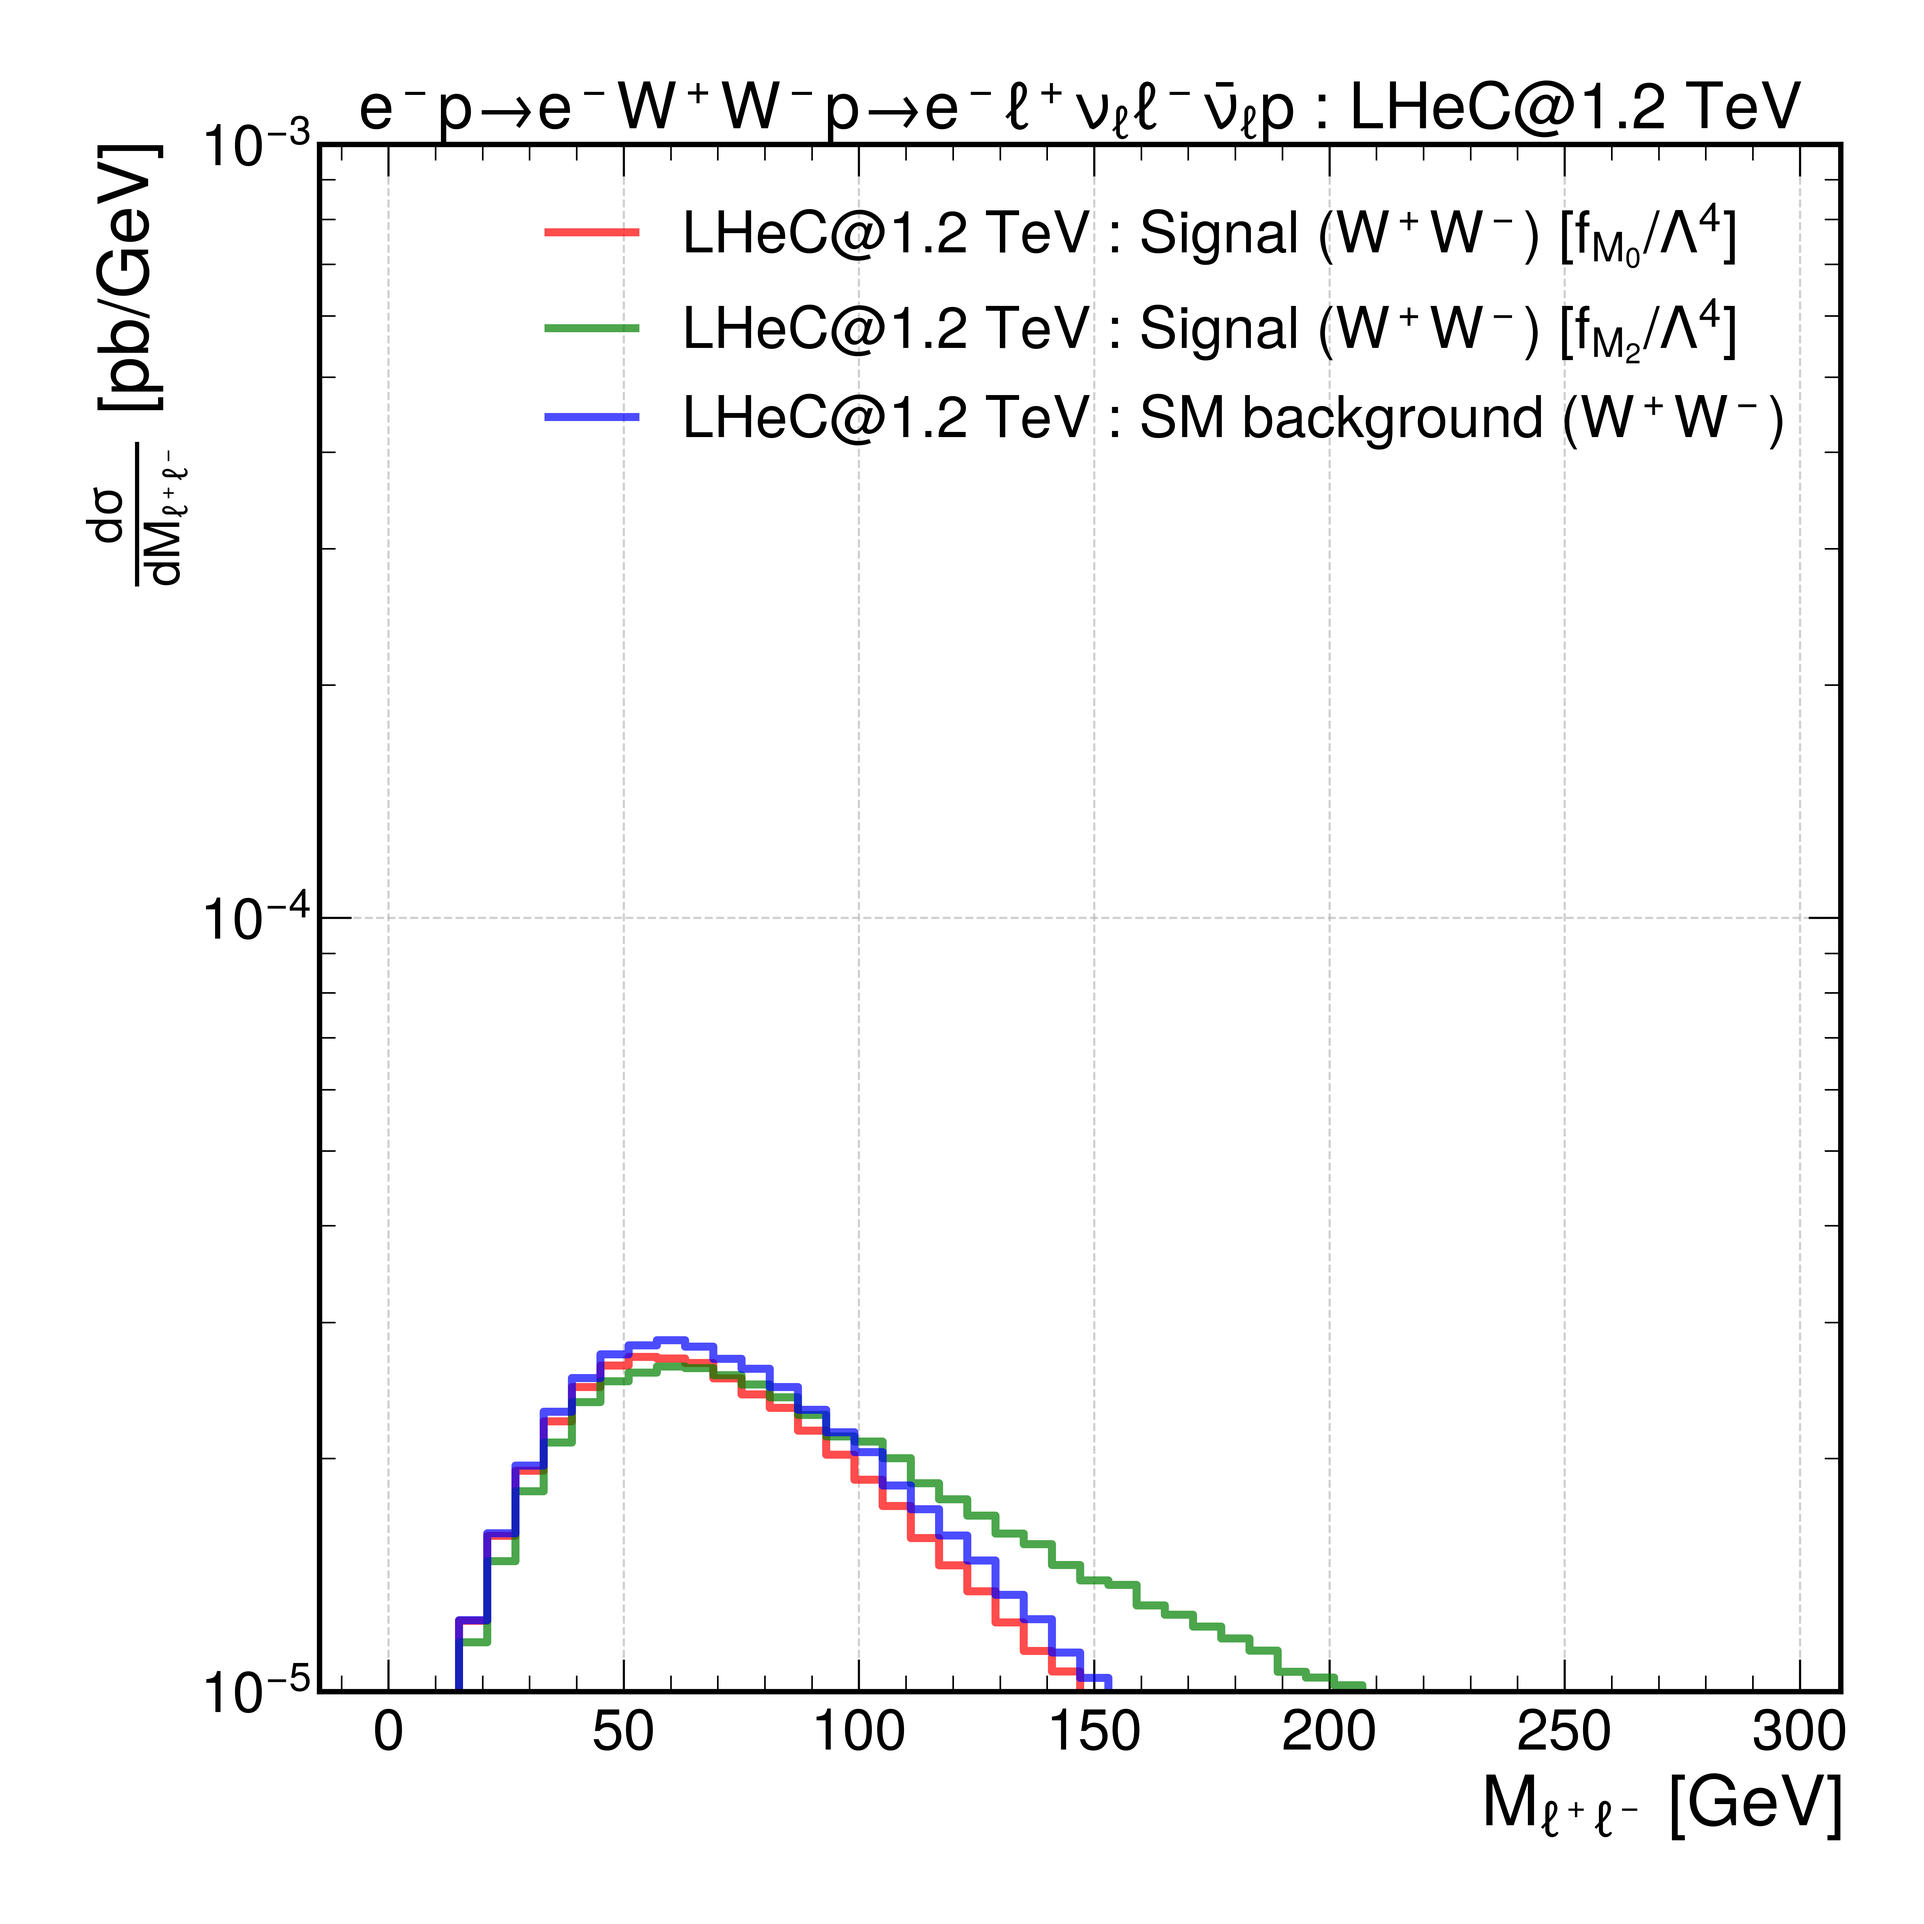
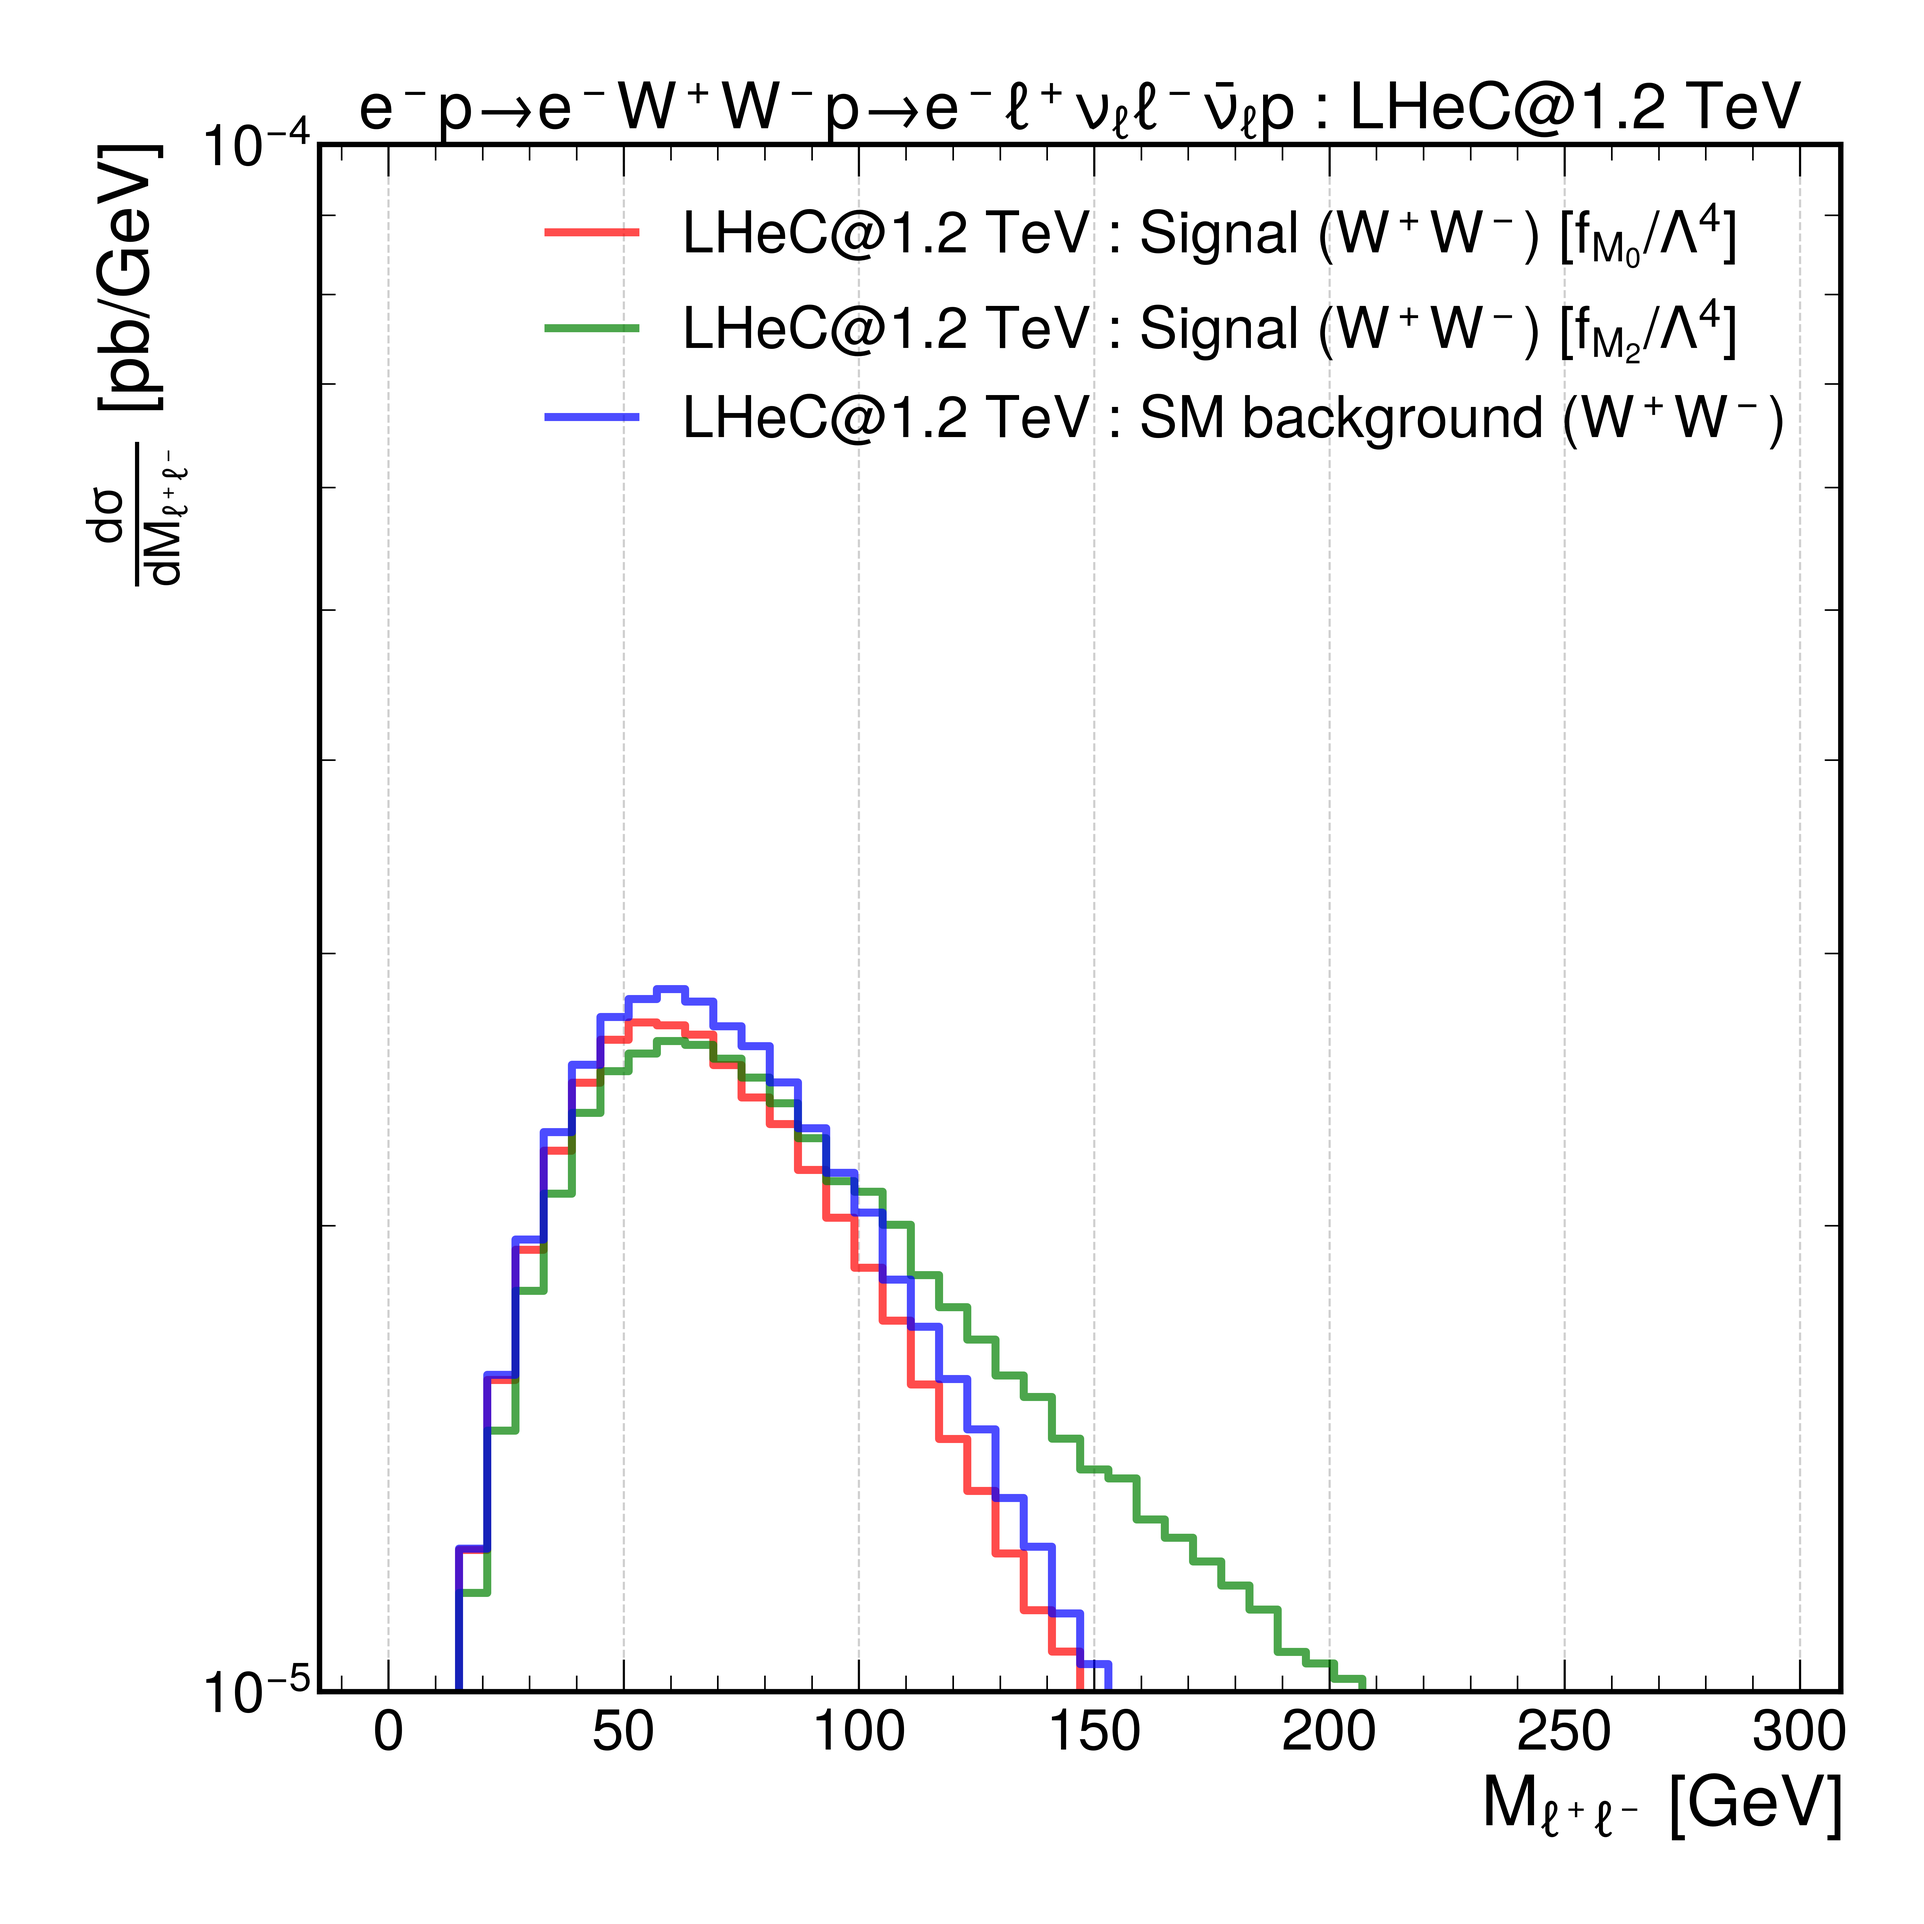
updates
updates

diff --git a/aa_to_fully_leptonic_ww_analysis_code/aa_to_fully_leptonic_ww_analysis_code.py b/aa_to_fully_leptonic_ww_analysis_code/aa_to_fully_leptonic_ww_analysis_code.py
@@ -522,7 +522,7 @@ plt.yscale("log")
 plt.legend()
 plt.grid(True, linestyle="--", alpha=0.6)
 plt.tight_layout()
-plt.ylim(0.00001, 0.001)
+plt.ylim(0.00001, 0.0001)
 plt.savefig("differential_cross_section_m_ll_fully_leptonic.png", dpi=600)
 plt.show()
 
@@ -542,7 +542,7 @@ plt.yscale("log")
 plt.legend()
 plt.grid(True, linestyle="--", alpha=0.6)
 plt.tight_layout()
-plt.ylim(0.00001, 0.001)
+plt.ylim(0.00001, 0.0001)
 plt.savefig("differential_cross_section_pt_ll_fully_leptonic.png", dpi=600)
 plt.show()
 
